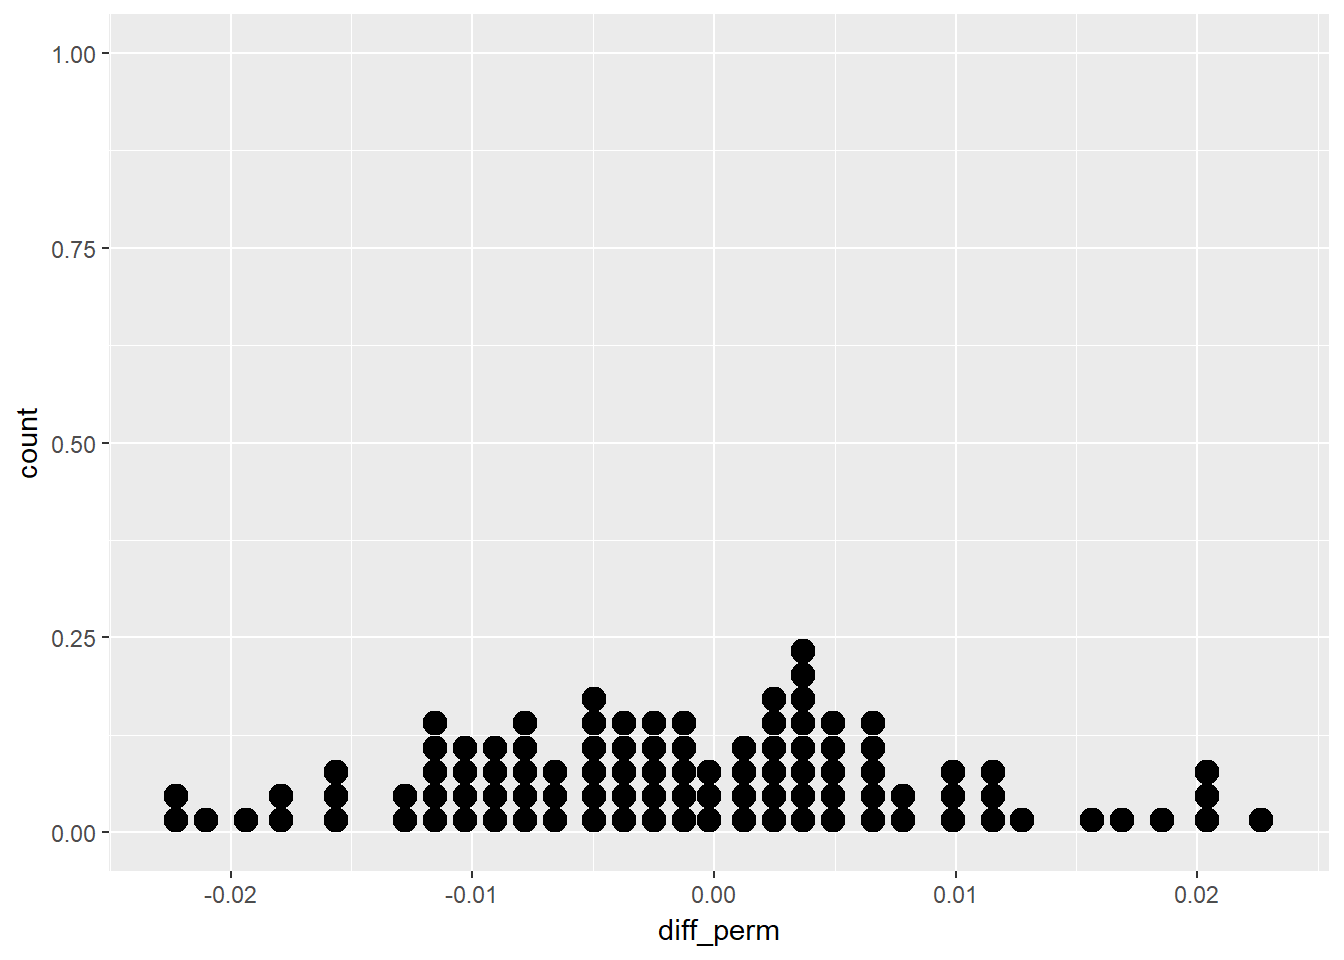
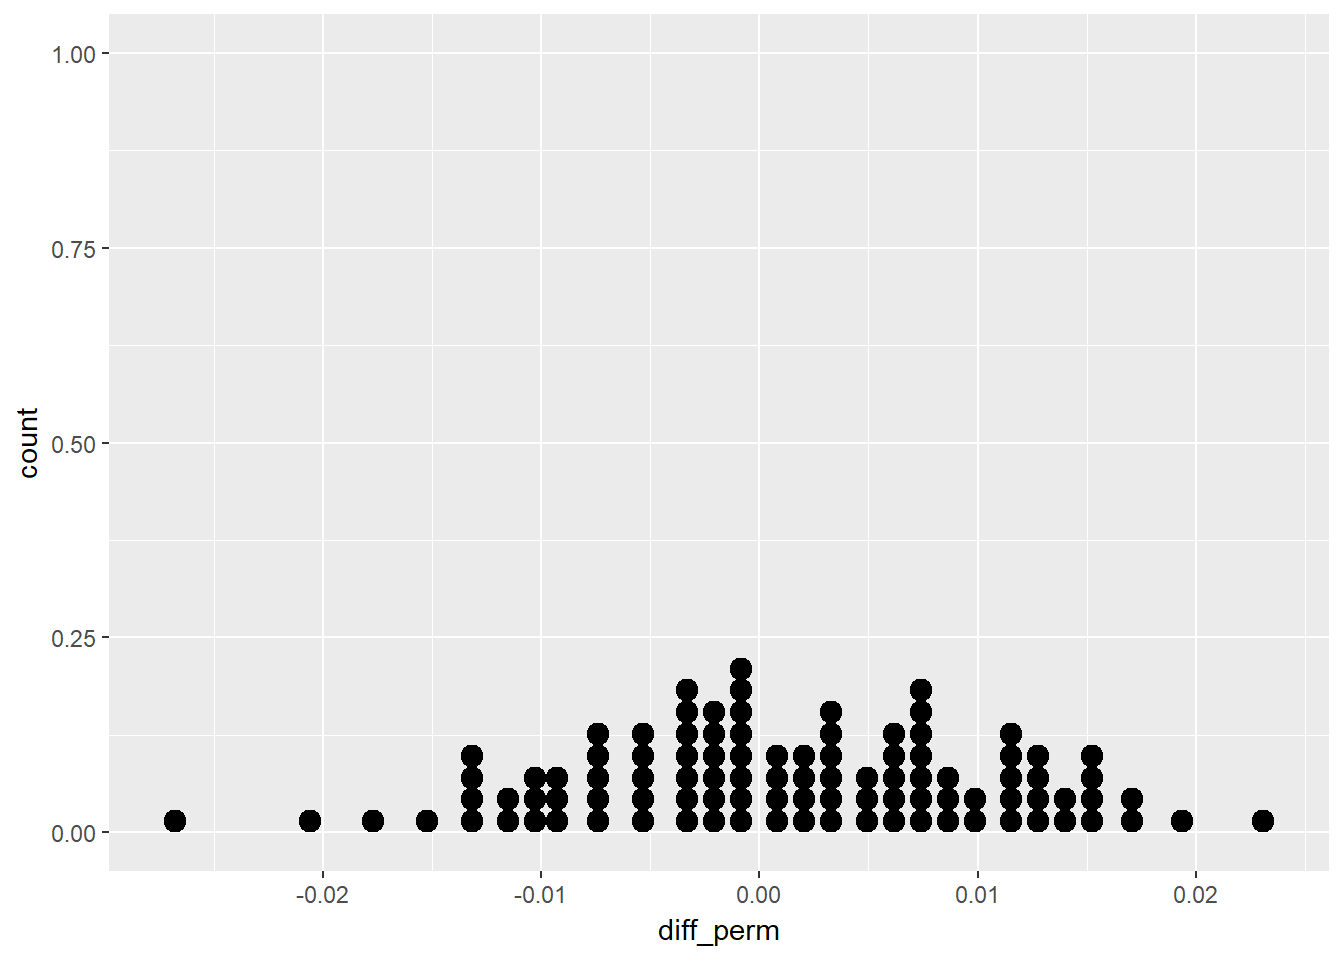
Added Sampling Strategies for IntroToData

diff --git a/docs/introduction-to-data.html b/docs/introduction-to-data.html
@@ -120,6 +120,7 @@ code > span.in { color: #60a0b0; font-weight: bold; font-style: italic; } /* Inf
 <li class="chapter" data-level="2.1" data-path="introduction-to-data.html"><a href="introduction-to-data.html#language-of-data"><i class="fa fa-check"></i><b>2.1</b> Language of Data</a></li>
 <li class="chapter" data-level="2.2" data-path="introduction-to-data.html"><a href="introduction-to-data.html#observational-studies-and-experiments"><i class="fa fa-check"></i><b>2.2</b> Observational Studies and Experiments</a></li>
 <li class="chapter" data-level="2.3" data-path="introduction-to-data.html"><a href="introduction-to-data.html#sampling-strategies-and-experimental-design"><i class="fa fa-check"></i><b>2.3</b> Sampling strategies and experimental design</a></li>
+<li class="chapter" data-level="2.4" data-path="introduction-to-data.html"><a href="introduction-to-data.html#case-study"><i class="fa fa-check"></i><b>2.4</b> Case Study</a></li>
 </ul></li>
 <li class="chapter" data-level="" data-path="references.html"><a href="references.html"><i class="fa fa-check"></i>References</a></li>
 <li class="chapter" data-level="3" data-path="foundations-of-inference.html"><a href="foundations-of-inference.html"><i class="fa fa-check"></i><b>3</b> Foundations of Inference</a><ul>
@@ -401,6 +402,56 @@ admit_by_dept %&gt;%
 </div>
 <div id="sampling-strategies-and-experimental-design" class="section level2">
 <h2><span class="header-section-number">2.3</span> Sampling strategies and experimental design</h2>
+<p>We use sampling when we do not want, for whatever reason, to conduct a full Census. A simple random sample is usually the most basic method. We can also use stratified sampling to ensure representation from certain groups. Or we use cluster sampling usually for economic reasons. Or some combination in multistage sampling.</p>
+<div class="sourceCode"><pre class="sourceCode r"><code class="sourceCode r"><span class="kw">data</span>(county)
+<span class="co"># Simple random sample: county_srs</span>
+county_srs &lt;-<span class="st"> </span>county %&gt;%
+<span class="st">  </span><span class="kw">sample_n</span>(<span class="dt">size =</span> <span class="dv">20</span>)
+
+<span class="co"># Count counties by state</span>
+county_srs %&gt;%
+<span class="st">  </span><span class="kw">group_by</span>(state) %&gt;%
+<span class="st">  </span><span class="kw">count</span>()</code></pre></div>
+<pre><code>## # A tibble: 15 × 2
+##             state     n
+##            &lt;fctr&gt; &lt;int&gt;
+## 1        Arkansas     1
+## 2      California     1
+## 3         Georgia     2
+## 4           Idaho     1
+## 5        Illinois     1
+## 6         Indiana     1
+## 7       Louisiana     1
+## 8       Minnesota     1
+## 9            Ohio     2
+## 10         Oregon     1
+## 11 South Carolina     2
+## 12      Tennessee     3
+## 13          Texas     1
+## 14           Utah     1
+## 15       Virginia     1</code></pre>
+<p>For a stratified sample we would do something similar.</p>
+<div class="sourceCode"><pre class="sourceCode r"><code class="sourceCode r"><span class="co"># Stratified sample</span>
+states_str &lt;-<span class="st"> </span>us_regions %&gt;%
+<span class="st">  </span><span class="kw">group_by</span>(region) %&gt;%
+<span class="st">  </span><span class="kw">sample_n</span>(<span class="dt">size =</span> <span class="dv">2</span>)
+
+<span class="co"># Count states by region</span>
+states_str %&gt;%
+<span class="st">  </span><span class="kw">group_by</span>(region) %&gt;%
+<span class="st">  </span><span class="kw">count</span>()</code></pre></div>
+<p>The principles of experimental design include 4 key components:</p>
+<ul>
+<li><strong>Control</strong>: compare treatment of interest to a control group</li>
+<li><strong>Randomise</strong>: randomly assign subjects to treatments</li>
+<li><strong>Replicate</strong>: collect a sufficiently large sample within a study, or replicate the entire study</li>
+<li><strong>Block</strong>: account for the potential effect of confounding variables</li>
+</ul>
+<p>We group subjects into blocks based on these confounding variables, then randomise within each block to treatment groups. So for instance, if we were testing whether an online or classroom R course was more effective using an experiment, one possible confounding variable would be previous programming experience. Therefore we would seperate out - block - those with and those without previous programming experience, ensuring we have an equal number in each treatment group (online vs classroom) of those with and without previous experience.</p>
+<p>In random sampling, you use stratifying to control for a variable. In random assignment, you use blocking to achieve the same goal.</p>
+</div>
+<div id="case-study" class="section level2">
+<h2><span class="header-section-number">2.4</span> Case Study</h2>
 </div>
 </div>
 <h3>References</h3>

diff --git a/docs/foundations-of-inference.html b/docs/foundations-of-inference.html
@@ -120,6 +120,7 @@ code > span.in { color: #60a0b0; font-weight: bold; font-style: italic; } /* Inf
 <li class="chapter" data-level="2.1" data-path="introduction-to-data.html"><a href="introduction-to-data.html#language-of-data"><i class="fa fa-check"></i><b>2.1</b> Language of Data</a></li>
 <li class="chapter" data-level="2.2" data-path="introduction-to-data.html"><a href="introduction-to-data.html#observational-studies-and-experiments"><i class="fa fa-check"></i><b>2.2</b> Observational Studies and Experiments</a></li>
 <li class="chapter" data-level="2.3" data-path="introduction-to-data.html"><a href="introduction-to-data.html#sampling-strategies-and-experimental-design"><i class="fa fa-check"></i><b>2.3</b> Sampling strategies and experimental design</a></li>
+<li class="chapter" data-level="2.4" data-path="introduction-to-data.html"><a href="introduction-to-data.html#case-study"><i class="fa fa-check"></i><b>2.4</b> Case Study</a></li>
 </ul></li>
 <li class="chapter" data-level="" data-path="references.html"><a href="references.html"><i class="fa fa-check"></i>References</a></li>
 <li class="chapter" data-level="3" data-path="foundations-of-inference.html"><a href="foundations-of-inference.html"><i class="fa fa-check"></i><b>3</b> Foundations of Inference</a><ul>
@@ -255,7 +256,7 @@ homes %&gt;%
 <pre><code>## # A tibble: 1 × 2
 ##      diff_perm   diff_orig
 ##          &lt;dbl&gt;       &lt;dbl&gt;
-## 1 -0.007828723 0.001644559</code></pre>
+## 1 -0.007828723 0.008234667</code></pre>
 <p>It is easier to see what is going on by breaking the results down iteratively. Our selected and filtered homes dataset looks like.</p>
 <div class="sourceCode"><pre class="sourceCode r"><code class="sourceCode r"><span class="kw">head</span>(homes)</code></pre></div>
 <pre><code>## # A tibble: 6 × 2
@@ -296,17 +297,17 @@ homes3</code></pre></div>
 <pre><code>## # A tibble: 2 × 3
 ##   Gender prop_own_perm  prop_own
 ##   &lt;fctr&gt;         &lt;dbl&gt;     &lt;dbl&gt;
-## 1 female     0.6588957 0.6654397
-## 2   male     0.6642472 0.6576109</code></pre>
+## 1 female     0.6638037 0.6654397
+## 2   male     0.6592700 0.6576109</code></pre>
 <p>FFinally we calculate the differences in ownership - note that the difference for the permuted value here may be different from the full code above, as it a new random permutation and we have used the set.seed() function which would create an identical permutation.</p>
 <div class="sourceCode"><pre class="sourceCode r"><code class="sourceCode r">homes4 &lt;-<span class="st"> </span>homes3 %&gt;%<span class="st"> </span>
 <span class="st">  </span><span class="kw">summarize</span>(<span class="dt">diff_perm =</span> <span class="kw">diff</span>(prop_own),
   <span class="dt">diff_orig =</span> <span class="kw">diff</span>(prop_own_perm))
 homes4</code></pre></div>
 <pre><code>## # A tibble: 1 × 2
-##      diff_perm   diff_orig
-##          &lt;dbl&gt;       &lt;dbl&gt;
-## 1 -0.007828723 0.005351495</code></pre>
+##      diff_perm    diff_orig
+##          &lt;dbl&gt;        &lt;dbl&gt;
+## 1 -0.007828723 -0.004533669</code></pre>
 </div>
 <div id="density-plots" class="section level2">
 <h2><span class="header-section-number">3.3</span> Density Plots</h2>

diff --git a/docs/index.html b/docs/index.html
@@ -120,6 +120,7 @@ code > span.in { color: #60a0b0; font-weight: bold; font-style: italic; } /* Inf
 <li class="chapter" data-level="2.1" data-path="introduction-to-data.html"><a href="introduction-to-data.html#language-of-data"><i class="fa fa-check"></i><b>2.1</b> Language of Data</a></li>
 <li class="chapter" data-level="2.2" data-path="introduction-to-data.html"><a href="introduction-to-data.html#observational-studies-and-experiments"><i class="fa fa-check"></i><b>2.2</b> Observational Studies and Experiments</a></li>
 <li class="chapter" data-level="2.3" data-path="introduction-to-data.html"><a href="introduction-to-data.html#sampling-strategies-and-experimental-design"><i class="fa fa-check"></i><b>2.3</b> Sampling strategies and experimental design</a></li>
+<li class="chapter" data-level="2.4" data-path="introduction-to-data.html"><a href="introduction-to-data.html#case-study"><i class="fa fa-check"></i><b>2.4</b> Case Study</a></li>
 </ul></li>
 <li class="chapter" data-level="" data-path="references.html"><a href="references.html"><i class="fa fa-check"></i>References</a></li>
 <li class="chapter" data-level="3" data-path="foundations-of-inference.html"><a href="foundations-of-inference.html"><i class="fa fa-check"></i><b>3</b> Foundations of Inference</a><ul>
@@ -166,7 +167,7 @@ code > span.in { color: #60a0b0; font-weight: bold; font-style: italic; } /* Inf
 <div id="header">
 <h1 class="title">Study notes</h1>
 <h4 class="author"><em>James Solomon-Rounce</em></h4>
-<h4 class="date"><em>Last updated:2017-08-02</em></h4>
+<h4 class="date"><em>Last updated:2017-08-03</em></h4>
 </div>
 <div id="preface" class="section level1 unnumbered">
 <h1>Preface</h1>

diff --git a/docs/dimensional-modelling.html b/docs/dimensional-modelling.html
@@ -120,6 +120,7 @@ code > span.in { color: #60a0b0; font-weight: bold; font-style: italic; } /* Inf
 <li class="chapter" data-level="2.1" data-path="introduction-to-data.html"><a href="introduction-to-data.html#language-of-data"><i class="fa fa-check"></i><b>2.1</b> Language of Data</a></li>
 <li class="chapter" data-level="2.2" data-path="introduction-to-data.html"><a href="introduction-to-data.html#observational-studies-and-experiments"><i class="fa fa-check"></i><b>2.2</b> Observational Studies and Experiments</a></li>
 <li class="chapter" data-level="2.3" data-path="introduction-to-data.html"><a href="introduction-to-data.html#sampling-strategies-and-experimental-design"><i class="fa fa-check"></i><b>2.3</b> Sampling strategies and experimental design</a></li>
+<li class="chapter" data-level="2.4" data-path="introduction-to-data.html"><a href="introduction-to-data.html#case-study"><i class="fa fa-check"></i><b>2.4</b> Case Study</a></li>
 </ul></li>
 <li class="chapter" data-level="" data-path="references.html"><a href="references.html"><i class="fa fa-check"></i>References</a></li>
 <li class="chapter" data-level="3" data-path="foundations-of-inference.html"><a href="foundations-of-inference.html"><i class="fa fa-check"></i><b>3</b> Foundations of Inference</a><ul>

diff --git a/docs/importing-data-part-1.html b/docs/importing-data-part-1.html
@@ -120,6 +120,7 @@ code > span.in { color: #60a0b0; font-weight: bold; font-style: italic; } /* Inf
 <li class="chapter" data-level="2.1" data-path="introduction-to-data.html"><a href="introduction-to-data.html#language-of-data"><i class="fa fa-check"></i><b>2.1</b> Language of Data</a></li>
 <li class="chapter" data-level="2.2" data-path="introduction-to-data.html"><a href="introduction-to-data.html#observational-studies-and-experiments"><i class="fa fa-check"></i><b>2.2</b> Observational Studies and Experiments</a></li>
 <li class="chapter" data-level="2.3" data-path="introduction-to-data.html"><a href="introduction-to-data.html#sampling-strategies-and-experimental-design"><i class="fa fa-check"></i><b>2.3</b> Sampling strategies and experimental design</a></li>
+<li class="chapter" data-level="2.4" data-path="introduction-to-data.html"><a href="introduction-to-data.html#case-study"><i class="fa fa-check"></i><b>2.4</b> Case Study</a></li>
 </ul></li>
 <li class="chapter" data-level="" data-path="references.html"><a href="references.html"><i class="fa fa-check"></i>References</a></li>
 <li class="chapter" data-level="3" data-path="foundations-of-inference.html"><a href="foundations-of-inference.html"><i class="fa fa-check"></i><b>3</b> Foundations of Inference</a><ul>

diff --git a/docs/references-1.html b/docs/references-1.html
@@ -120,6 +120,7 @@ code > span.in { color: #60a0b0; font-weight: bold; font-style: italic; } /* Inf
 <li class="chapter" data-level="2.1" data-path="introduction-to-data.html"><a href="introduction-to-data.html#language-of-data"><i class="fa fa-check"></i><b>2.1</b> Language of Data</a></li>
 <li class="chapter" data-level="2.2" data-path="introduction-to-data.html"><a href="introduction-to-data.html#observational-studies-and-experiments"><i class="fa fa-check"></i><b>2.2</b> Observational Studies and Experiments</a></li>
 <li class="chapter" data-level="2.3" data-path="introduction-to-data.html"><a href="introduction-to-data.html#sampling-strategies-and-experimental-design"><i class="fa fa-check"></i><b>2.3</b> Sampling strategies and experimental design</a></li>
+<li class="chapter" data-level="2.4" data-path="introduction-to-data.html"><a href="introduction-to-data.html#case-study"><i class="fa fa-check"></i><b>2.4</b> Case Study</a></li>
 </ul></li>
 <li class="chapter" data-level="" data-path="references.html"><a href="references.html"><i class="fa fa-check"></i>References</a></li>
 <li class="chapter" data-level="3" data-path="foundations-of-inference.html"><a href="foundations-of-inference.html"><i class="fa fa-check"></i><b>3</b> Foundations of Inference</a><ul>

diff --git a/docs/references-2.html b/docs/references-2.html
@@ -120,6 +120,7 @@ code > span.in { color: #60a0b0; font-weight: bold; font-style: italic; } /* Inf
 <li class="chapter" data-level="2.1" data-path="introduction-to-data.html"><a href="introduction-to-data.html#language-of-data"><i class="fa fa-check"></i><b>2.1</b> Language of Data</a></li>
 <li class="chapter" data-level="2.2" data-path="introduction-to-data.html"><a href="introduction-to-data.html#observational-studies-and-experiments"><i class="fa fa-check"></i><b>2.2</b> Observational Studies and Experiments</a></li>
 <li class="chapter" data-level="2.3" data-path="introduction-to-data.html"><a href="introduction-to-data.html#sampling-strategies-and-experimental-design"><i class="fa fa-check"></i><b>2.3</b> Sampling strategies and experimental design</a></li>
+<li class="chapter" data-level="2.4" data-path="introduction-to-data.html"><a href="introduction-to-data.html#case-study"><i class="fa fa-check"></i><b>2.4</b> Case Study</a></li>
 </ul></li>
 <li class="chapter" data-level="" data-path="references.html"><a href="references.html"><i class="fa fa-check"></i>References</a></li>
 <li class="chapter" data-level="3" data-path="foundations-of-inference.html"><a href="foundations-of-inference.html"><i class="fa fa-check"></i><b>3</b> Foundations of Inference</a><ul>

diff --git a/docs/references.html b/docs/references.html
@@ -120,6 +120,7 @@ code > span.in { color: #60a0b0; font-weight: bold; font-style: italic; } /* Inf
 <li class="chapter" data-level="2.1" data-path="introduction-to-data.html"><a href="introduction-to-data.html#language-of-data"><i class="fa fa-check"></i><b>2.1</b> Language of Data</a></li>
 <li class="chapter" data-level="2.2" data-path="introduction-to-data.html"><a href="introduction-to-data.html#observational-studies-and-experiments"><i class="fa fa-check"></i><b>2.2</b> Observational Studies and Experiments</a></li>
 <li class="chapter" data-level="2.3" data-path="introduction-to-data.html"><a href="introduction-to-data.html#sampling-strategies-and-experimental-design"><i class="fa fa-check"></i><b>2.3</b> Sampling strategies and experimental design</a></li>
+<li class="chapter" data-level="2.4" data-path="introduction-to-data.html"><a href="introduction-to-data.html#case-study"><i class="fa fa-check"></i><b>2.4</b> Case Study</a></li>
 </ul></li>
 <li class="chapter" data-level="" data-path="references.html"><a href="references.html"><i class="fa fa-check"></i>References</a></li>
 <li class="chapter" data-level="3" data-path="foundations-of-inference.html"><a href="foundations-of-inference.html"><i class="fa fa-check"></i><b>3</b> Foundations of Inference</a><ul>

diff --git a/docs/IntroToData.md b/docs/IntroToData.md
@@ -321,4 +321,70 @@ Now we begin to see that for some departments, there is a higher proportion of f
 
 ## Sampling strategies and experimental design
 
+We use sampling when we do not want, for whatever reason, to conduct a full Census.  A simple random sample is usually the most basic method.  We can also use stratified sampling to ensure representation from certain groups.  Or we use cluster sampling usually for economic reasons.  Or some combination in multistage sampling.
+
+
+```r
+data(county)
+# Simple random sample: county_srs
+county_srs <- county %>%
+  sample_n(size = 20)
+
+# Count counties by state
+county_srs %>%
+  group_by(state) %>%
+  count()
+```
+
+```
+## # A tibble: 15 × 2
+##             state     n
+##            <fctr> <int>
+## 1        Arkansas     1
+## 2      California     1
+## 3         Georgia     2
+## 4           Idaho     1
+## 5        Illinois     1
+## 6         Indiana     1
+## 7       Louisiana     1
+## 8       Minnesota     1
+## 9            Ohio     2
+## 10         Oregon     1
+## 11 South Carolina     2
+## 12      Tennessee     3
+## 13          Texas     1
+## 14           Utah     1
+## 15       Virginia     1
+```
+
+For a stratified sample we would do something similar.
+
+
+```r
+# Stratified sample
+states_str <- us_regions %>%
+  group_by(region) %>%
+  sample_n(size = 2)
+
+# Count states by region
+states_str %>%
+  group_by(region) %>%
+  count()
+```
+
+
+
+The principles of experimental design include 4 key components:
+
+* **Control**: compare treatment of interest to a control group
+* **Randomise**: randomly assign subjects to treatments
+* **Replicate**: collect a sufficiently large sample within a study, or replicate the entire study
+* **Block**: account for the potential effect of confounding variables
+
+We group subjects into blocks based on these confounding variables, then randomise within each block to treatment groups.  So for instance, if we were testing whether an online or classroom R course was more effective using an experiment, one possible confounding variable would be previous programming experience.  Therefore we would seperate out - block - those with and those without previous programming experience, ensuring we have an equal number in each treatment group (online vs classroom) of those with and without previous experience.
+
+In random sampling, you use stratifying to control for a variable. In random assignment, you use blocking to achieve the same goal.
+
+## Case Study
+
 # References {-}

diff --git a/docs/Foundations-of-Inference.md b/docs/Foundations-of-Inference.md
@@ -97,7 +97,7 @@ homes %>%
 ## # A tibble: 1 × 2
 ##      diff_perm   diff_orig
 ##          <dbl>       <dbl>
-## 1 -0.007828723 0.001644559
+## 1 -0.007828723 0.008234667
 ```
 
 It is easier to see what is going on by breaking the results down iteratively.  Our selected and filtered homes dataset looks like. 
@@ -168,8 +168,8 @@ homes3
 ## # A tibble: 2 × 3
 ##   Gender prop_own_perm  prop_own
 ##   <fctr>         <dbl>     <dbl>
-## 1 female     0.6588957 0.6654397
-## 2   male     0.6642472 0.6576109
+## 1 female     0.6638037 0.6654397
+## 2   male     0.6592700 0.6576109
 ```
 
 FFinally we calculate the differences in ownership - note that the difference for the permuted value here may be different from the full code above, as it a new random permutation and we have used the set.seed() function which would create an identical permutation.
@@ -184,9 +184,9 @@ homes4
 
 ```
 ## # A tibble: 1 × 2
-##      diff_perm   diff_orig
-##          <dbl>       <dbl>
-## 1 -0.007828723 0.005351495
+##      diff_perm    diff_orig
+##          <dbl>        <dbl>
+## 1 -0.007828723 -0.004533669
 ```
 
 ##Density Plots

diff --git a/docs/index.md b/docs/index.md
@@ -1,7 +1,7 @@
 --- 
 title: "Study notes"
 author: "James Solomon-Rounce"
-date: 'Last updated:2017-08-02'
+date: 'Last updated:2017-08-03'
 bibliography: book.bib
 description: Study notes taken from courses and self learning.
 documentclass: book
